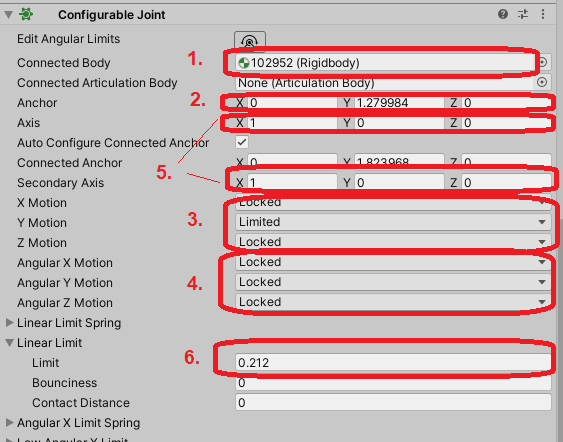
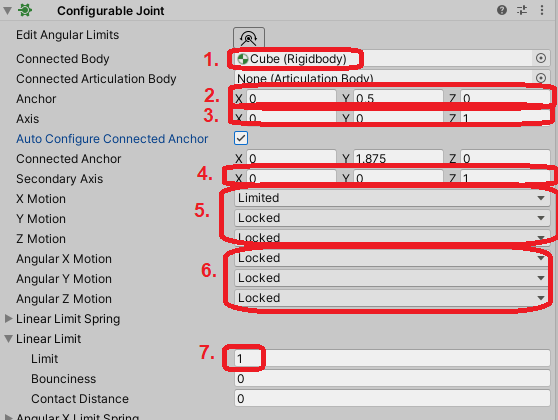
fixed prismatic documentation

diff --git a/Documentation/composite_objects/composite_objects.md b/Documentation/composite_objects/composite_objects.md
@@ -4,13 +4,14 @@ Composite Objects are any models that have _sub-objects_ that can be referenced 
 
 Each sub-object may also be a _mechanism_ (a TDW-specific idiom). Currently, the following mechanism have been implemented:
 
-| Mechanism | Behavior                                                     | Example                |
-| --------- | ------------------------------------------------------------ | ---------------------- |
-| `hinge`   | Swings freely on a pivot point around an axis.               | A box with a lid       |
-| `motor`   | Can rotate on a pivot point around an axis by applying a target velocity and a force magnitude. | A helicopter propeller |
-| `spring`  | Can rotate on a pivot point around an axis by applying a target position. The motion will appear "spring-like" | Jack-in-the-box        |
-| `light`   | Can be turned on or off.                                     | A lightbulb            |
-| `none`    | (No mechanism)                                               | A chest of drawers     |
+| Mechanism         | Behavior                                                     | Example                |
+| ----------------- | ------------------------------------------------------------ | ---------------------- |
+| `hinge`           | Swings freely on a pivot point around an axis.               | A box with a lid       |
+| `motor`           | Can rotate on a pivot point around an axis by applying a target velocity and a force magnitude. | A helicopter propeller |
+| `spring`          | Can rotate on a pivot point around an axis by applying a target position. The motion will appear "spring-like" | Jack-in-the-box        |
+| `prismatic_joint` | A prismatic joint that moves linearly.                       | A chest of drawers     |
+| `light`           | Can be turned on or off.                                     | A lightbulb            |
+| `none`            | (No mechanism)                                               | A puzzle box           |
 
 ### Output Data
 

diff --git a/Documentation/composite_objects/creating_composite_objects.md b/Documentation/composite_objects/creating_composite_objects.md
@@ -139,10 +139,11 @@ Prismatic motion can be set using ConfigureableJoints; ConfigureableJoints shoul
 
 1. ConfigureableJoints must have a connected body that is not null (just like HingeJoints)
 2. Set the `Anchor` at the current position of the object + the upper limit + the lower limit.
-3. Set `X Motion` or `Y Motion` (but not both) to `Limited` and set all others to `Locked`.
-4. Set `Angular X Motion`, `Angular Y Motion`, and `Angular Z Motion` to `Locked`.
-5. If `X Motion` is `Limited`, set `Axis` and `Secondary Axis` to [0, 1, 0]. If `Y Motion` is `Limited`, set `Axis` and `Secondary Axis` to [1, 0, 0]. 
-6. Under `Linear Limit`, set `Limit` to the lower limit.
+3. Set `Axis` to the direction of the motion.
+4. Set `Secondary Axis` to match `Axis`.
+5. Set `X Motion` to `Limited`, `Y Motion` to `Locked`, and `Z Motion` to `Locked`, regardless of the actual direction of the joint.
+6. Set `Angular X Motion`, `Angular Y Motion`, and `Angular Z Motion` to `Locked`.
+7. Under `Linear Limit`, set `Limit` to the lower limit.
 
 ![](../images/composite_objects/configureable_joint.png)
 
